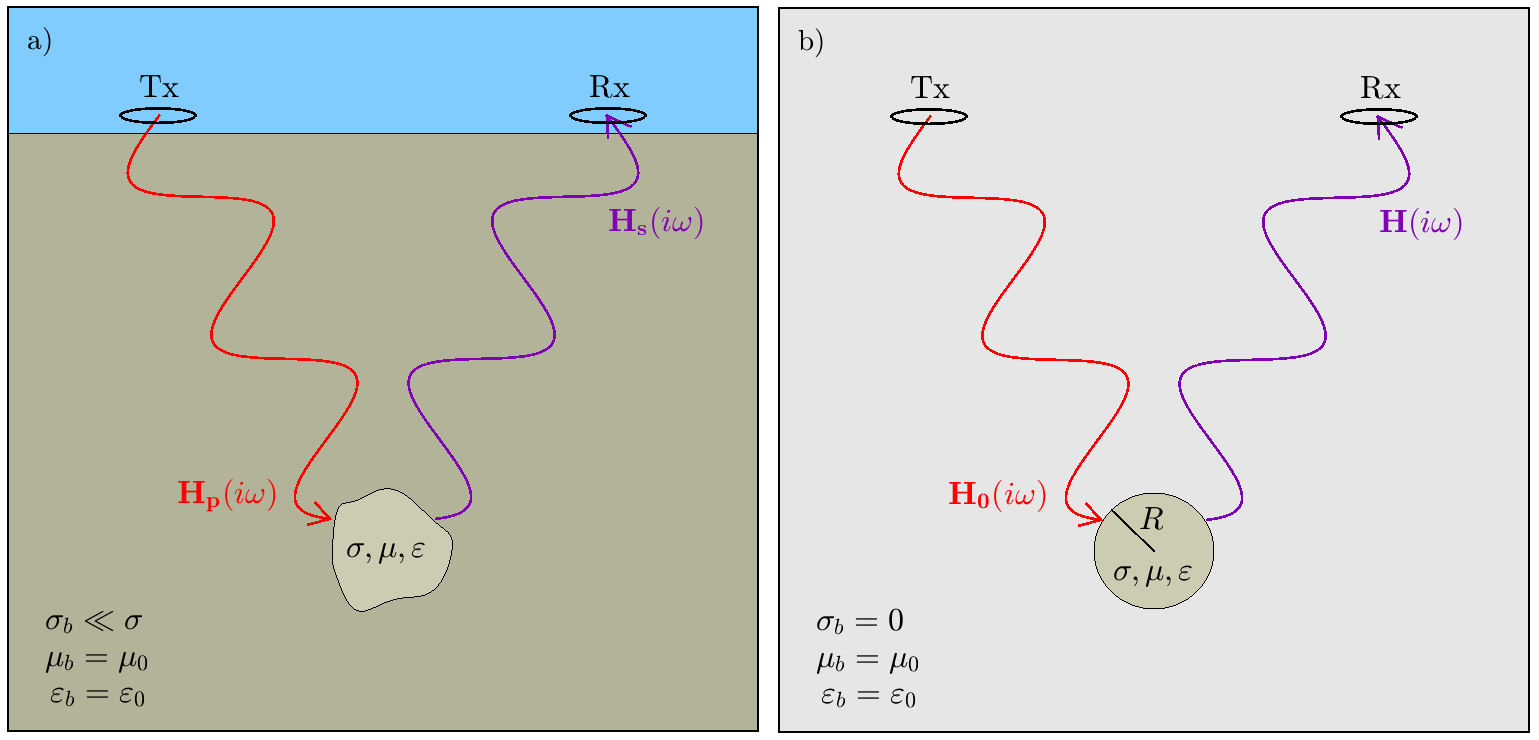
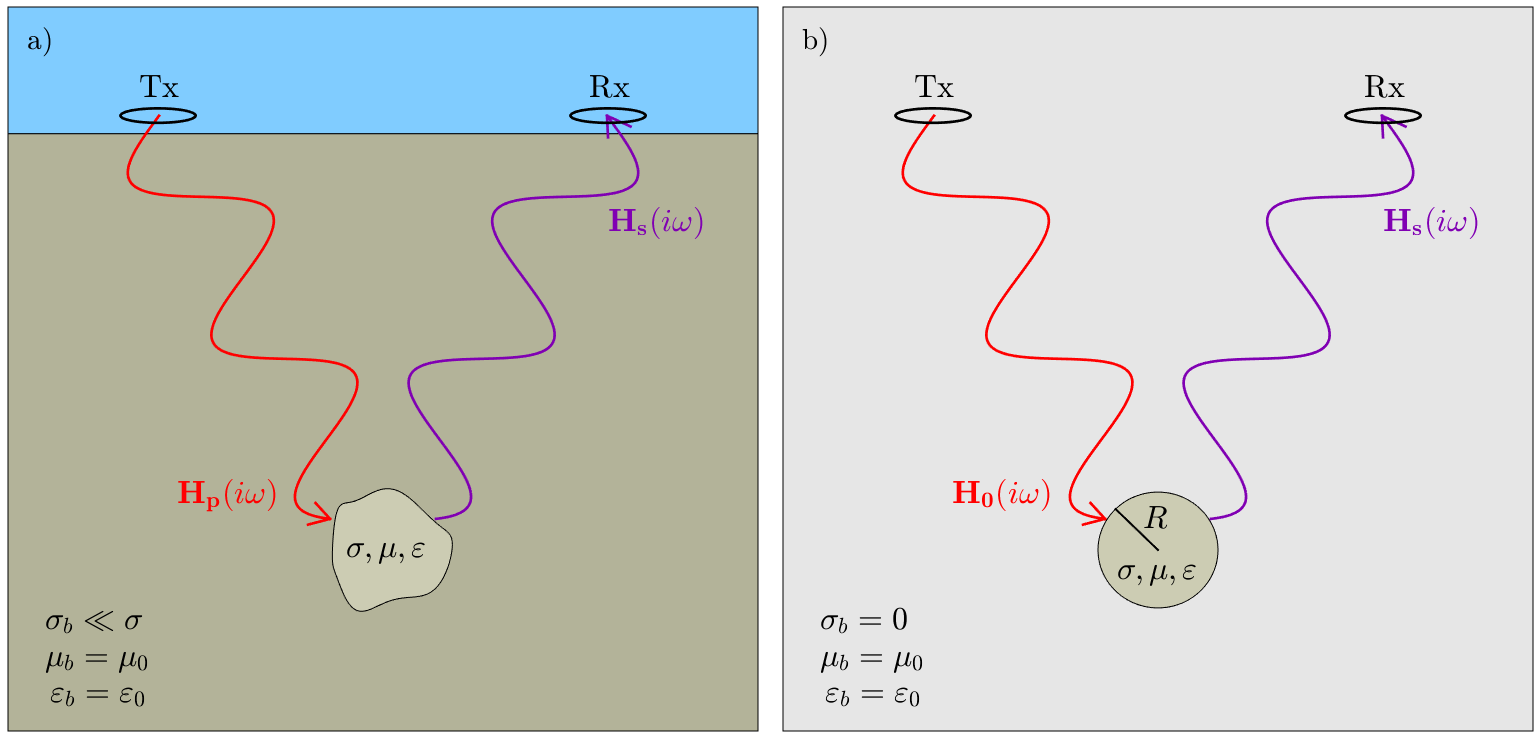
More Edits

diff --git a/content/maxwell3_fdem/sphere_freespace/dipole_response.rst b/content/maxwell3_fdem/sphere_freespace/dipole_response.rst
@@ -3,41 +3,68 @@
 Dipole Response in Free-Space
 -----------------------------
 
+Here, expressions from Wait (1951) are used to characterize the dipole response from a conductive and magnetically permeable sphere in free-space.
+
+.. figure:: ./images/figFreeSpaceSphere.png
+        :align: right
+        :figwidth: 40%
+        :name: FreeSpaceSphere
+
+        Problem geometry for a conductive and magnetically permeable sphere in free-space.
+
+Consider the problem geometry illustrated in Figure (??), wherein a sphere of radius :math:`R`, conductivity :math:`\sigma`, magnetic permeability :math:`\mu` and electric permittivity :math:`\varepsilon` is located in the vicinity of an inductive source transmitter (Tx).
+The transmitter generates a harmonic primary field :math:`{\bf H_0} (i\omega)`, which induces an excitation within the sphere.
+Because we are in free-space, :math:`{\bf H_0} (i\omega)` may be calculated using the Biot-Savart law (link).
+The excitation induced within the sphere, produces a secondary field :math:`{\bf H_s} (i\omega)` which is then measured by a receiver coil (Rx).
 
 
-Consider the problem geometry illustrated in Figure (??); wherein a homogeneous sphere with physical properties :math:`\mu , \; \sigma` and :math:`\varepsilon`
-A transmitter loop (Tx) generate
+.. figure:: ./images/figDipoleField.png
+        :align: right
+        :figwidth: 40%
+        :name: DipoleField
+        
+        Response from a conductive and magnetically permeable sphere, under the influence of a uniform, harmonic inducing field :math:`{\bf H_0} (i\omega)`. The induced dipole moment is represented by :math:`{\bf m} (i\omega)` and the resulting dipole response is represented by :math:`{\bf H} (i\omega)`.
 
-
+Wait (1951) considered the dipole response from a conductive and magnetically permeable sphere, under the influence of a uniform, harmonic field (Figure ??).
+For a magnetic dipole moment :math:`{\bf m} (i\omega)`, the dipole field :math:`{\bf H} (i\omega)` is given by:
 
 .. math::
-	{\bf H} (i \omega) =\frac{\mu_0}{4\pi} \Bigg [ \frac{3 {\bf r} \; \big [ {\bf m}(i \omega) \cdot {\bf r} \; \big ]}{r^5} - \frac{{\bf m} (i \omega) }{r^3} \Bigg ] 
+	{\bf H} (i \omega) =\frac{1}{4\pi} \Bigg [ \frac{3 {\bf r} \; \big [ {\bf m}(i \omega) \cdot {\bf r} \; \big ]}{r^5} - \frac{{\bf m} (i \omega) }{r^3} \Bigg ] 
 
-So long as observations are sufficiently far from the sphere (:math:`\sim 5 \times` the diameter), the response is approximately equal to the dipole field:
-
+where :math:`{\bf r}` is the vector distance between :math:`P` and :math:`Q`.
+For practical problems, the inducing field may be considered approximately uniform about the sphere if 1) the radius of the sphere is much smaller than the wavelength of the inducing field , and 2) the distance between the transmitter and the sphere is sufficiently larger than the sphere's radius (typically :math:`> 10R` ).
+If these conditions are satisfied, the magnetic dipole moment characterizing the sphere's excitation is given by:
 
 .. math::
 	{\bf m} (i \omega) = \frac{4\pi}{3}R^3 \chi (i \omega) \, {\bf H_0} (i \omega)
 
+where :math:`\chi (i\omega)` is defined as the sphere's excitation factor.
+The nature of the sphere's frequency-domain response is represented by the excitation factor.
+An explicit expression for the excitation factor is given by (Wait, 1951):
 
 .. math::
 	\chi (i \omega) = \frac{3}{2} \Bigg [ \! \frac{2\mu \big [ tanh(\alpha) - \alpha  \big ] + \mu_0 \big [\alpha^2 \, tanh(\alpha) - \alpha + tanh(\alpha) \big ] }{\mu  \big [ tanh(\alpha) - \alpha \big ] - \mu_0 [ \alpha^2 \, tanh(\alpha) - \alpha + tanh(\alpha) \big ] } \! \Bigg ]
 
 where
 
+.. figure:: ./images/figChiOmega.png
+        :align: right
+        :figwidth: 40%
+        :name: ExcitationEx
+
 .. math::
-	\alpha = \Big [ i \omega \mu \sigma \Big ]^{1/2} R
+	\alpha = \Big [ i \omega \mu \sigma - \omega^2 \mu \varepsilon \Big ]^{1/2} R,
+
+:math:`\mu_0 = 4\pi \times 10^{-7}` H/m is the permeability of free-space, and :math:`\varepsilon`.
+The excitation factor for a sphere with physical properties :math:`R`, :math:`\sigma`, :math:`\mu` and :math:`\varepsilon` is shown in Figure ??.
 
 
 
 
 
-.. figure:: ./images/figDipoleGeometry.png
-        :align: center
-        :figwidth: 90%
-        :name: DipoleGeometry
 
-        :math:`(a)` Problem geometry for a homogeneous sphere in free-space. :math:`(b)` Dipole field from a conductive and magnetically permeable sphere, under the influence of a uniform inducing field.
+
+
 
 
 
